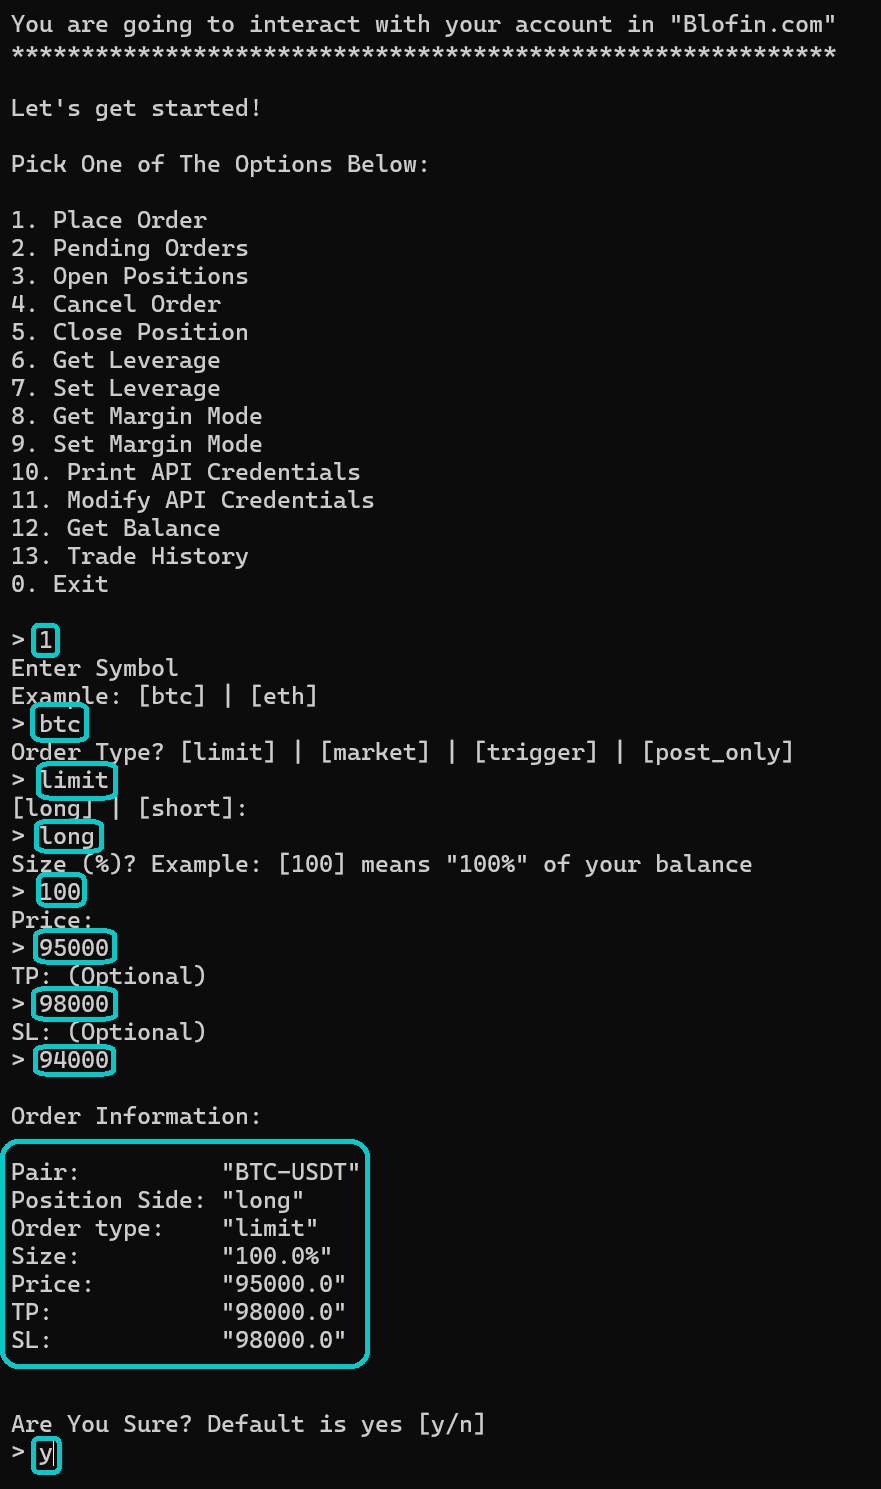
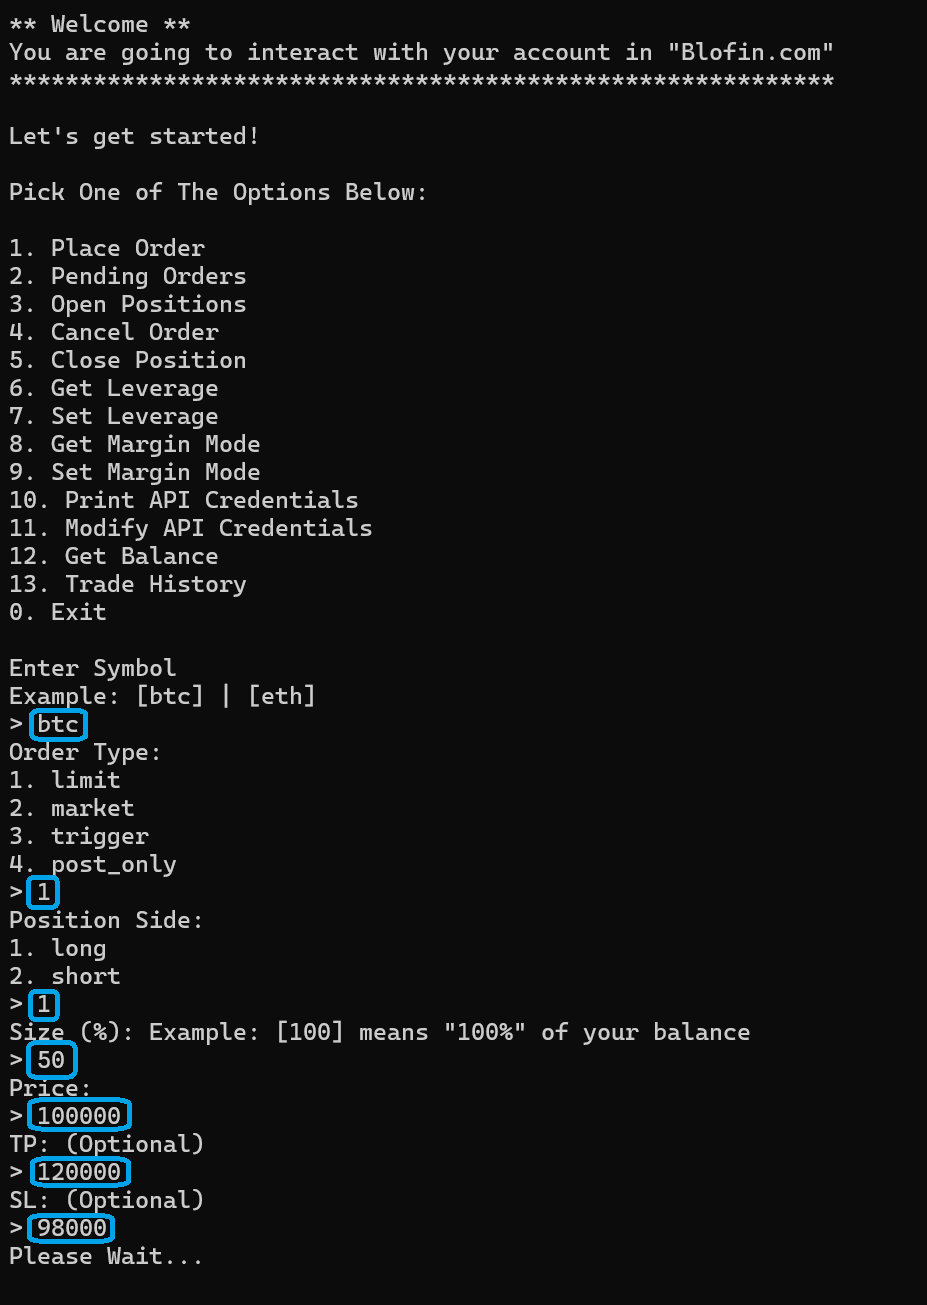
minor changes

diff --git a/api.py b/api.py
@@ -696,13 +696,14 @@ class Blofin:
         size_in_usdt = round((balance * size) / 100 , 2)
         leverage_multiplier = self.leverage(position_side)
         size_with_leverage = (size_in_usdt * leverage_multiplier)
-        text = lambda x: print(f"Size: {x} Contract(s)")
+        text = lambda x: print(f"{x} Contract(s) (With leverage)")
 
         if price is None:
             price = self.get_market_price()[0]
 
         each_contract_in_usdt = (contract_value * price)
         print(f"{size}% of Balance: {size_in_usdt} USDT")
+        print(f'Leverage: {leverage_multiplier}x')
 
         if min_size == '1' or order_type == "trigger":
             size_in_contract = math.floor(size_with_leverage / each_contract_in_usdt)
@@ -724,7 +725,7 @@ class Blofin:
 
     def print_info():
         print('********************************************* IMPORTANT **********************************************************')
-        print("If the order size looks less than entered, don't worry!\nSize calculation in Blofin is a little tricky!")
+        print("If the order size looks less than entered, don't worry!\nSize calculation in Blofin API is a little tricky!")
         print("For example: minimum size for bitcoin is 0.1 contract. 0.15 is not acceptable! Must be either 0.1 or 0.2")
         print("There is more! For trigger orders, contract size must be a whole number. 0.5 is not acceptable. Must be 1, 2, 3...")
         print('******************************************************************************************************************\n')

diff --git a/main.py b/main.py
@@ -176,7 +176,7 @@ def run():
         
 
         try:
-            sure = input("\nDo you confirm above data? [y/n]\n> ").lower().strip()
+            sure = input("\nDo you confirm? [y/n]\n> ").lower().strip()
         except:
             print("\nOperation cancelled by user")
             return

diff --git a/README.md b/README.md
@@ -35,5 +35,6 @@
     <img width="689" alt="examp1" src="./imgs/1.png" />
 
 5. Let's place a limit order
-
+    <i>Look at the inputs</i>
     <img width="562" alt="examp2" src="./imgs/2.png" />
+    <img width="562" alt="examp3" src="./imgs/3.png" />
